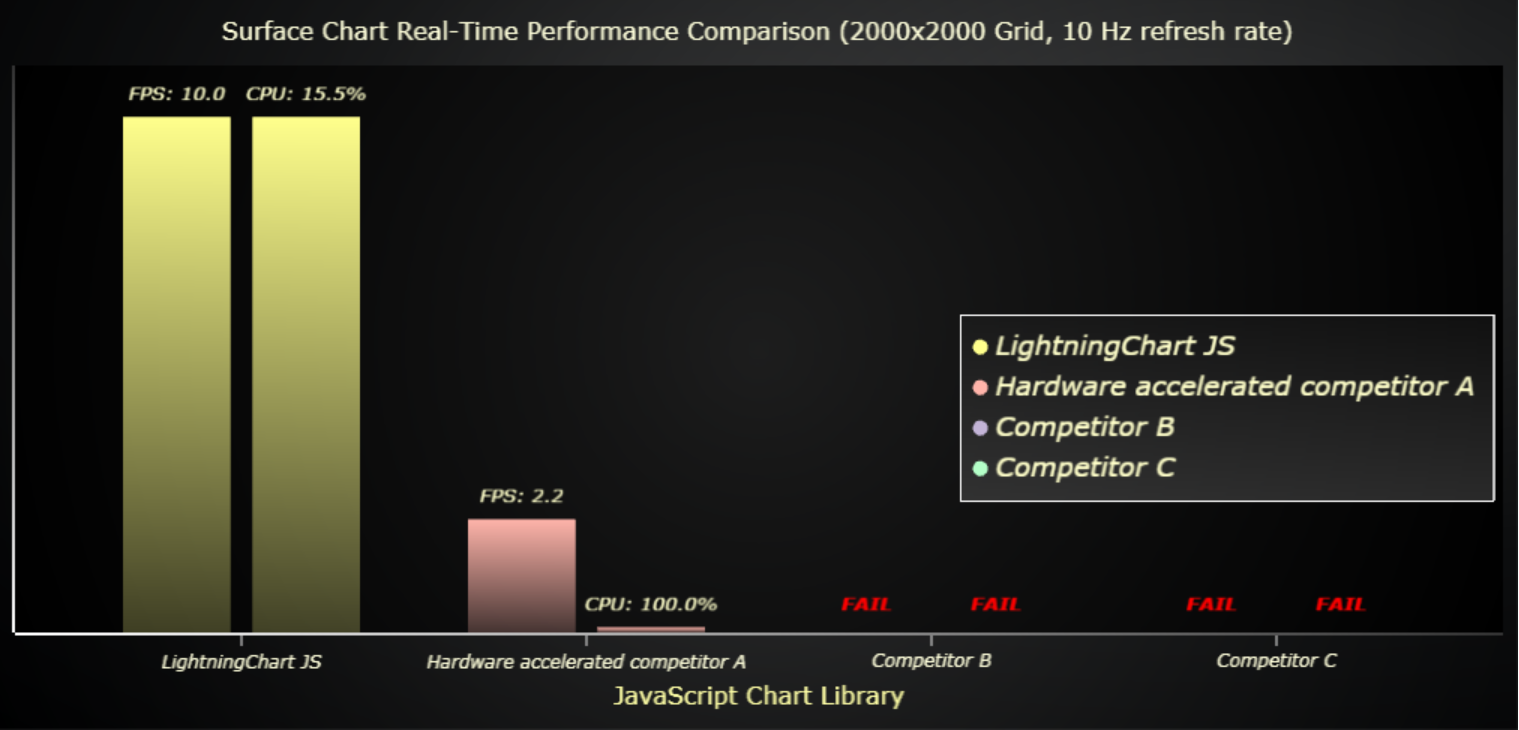
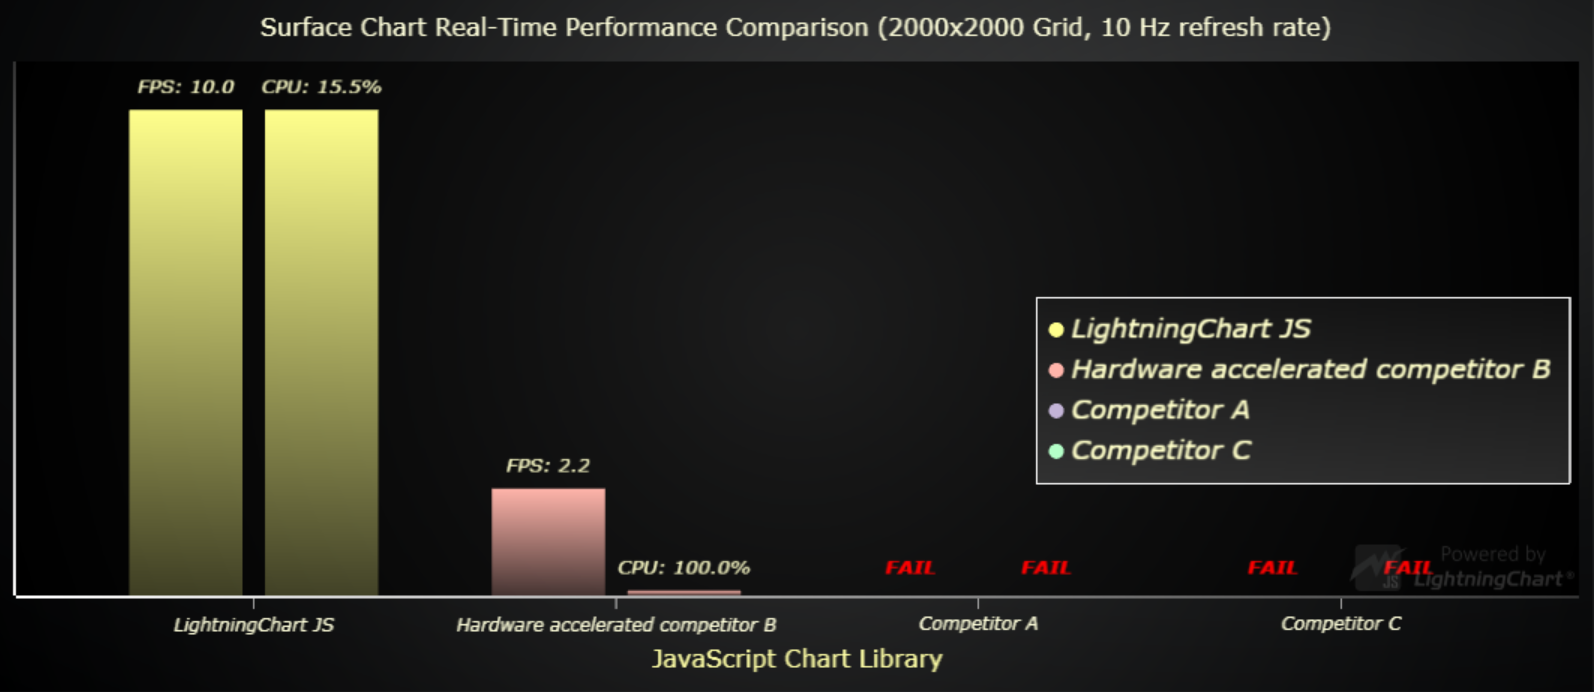
Fix competitor names in pics

diff --git a/bench/results-viz.js b/bench/results-viz.js
@@ -46,12 +46,12 @@ if (!target) {
                   { value: 1, label: '152 ms' },
               ] },
               {
-                  name: 'Hardware accelerated competitor A', values: [
+                  name: 'Hardware accelerated competitor B', values: [
                       { value: 152 / 1302, label: '1302 ms' }
                   ]
               },
               {
-                  name: 'Competitor B', values: [
+                  name: 'Competitor A', values: [
                       { value: 152 / 14598, label: '14598 ms' },
                   ]
               },
@@ -76,13 +76,13 @@ if (!target) {
                   { value: 100 - 15.5, label: 'CPU: 15.5%' }
               ] },
               {
-                  name: 'Hardware accelerated competitor A', values: [
+                  name: 'Hardware accelerated competitor B', values: [
                       { value: Math.min(10, 2.2), label: 'FPS: 2.2' },
                       { value: 100 - 100.0, label: 'CPU: 100.0%' }
                   ]
               },
               {
-                  name: 'Competitor B', values: [
+                  name: 'Competitor A', values: [
                       { value: -1, label: 'FAIL', color: '#ff0000' },
                       { value: -1, label: 'FAIL', color: '#ff0000' }
                   ]
@@ -109,13 +109,13 @@ if (!target) {
                   { value: 100 - 7.5, label: 'CPU: 7.5%' }
               ] },
               {
-                  name: 'Hardware accelerated competitor A', values: [
+                  name: 'Hardware accelerated competitor B', values: [
                       { value: 5.8, label: 'FPS: 5.8' },
                       { value: 100 - 100.0, label: 'CPU: 100.0%' }
                   ]
               },
               {
-                  name: 'Competitor B', values: [
+                  name: 'Competitor A', values: [
                       { value: 0.7, label: 'FPS: 0.7' },
                       { value: 100 - 100.0, label: 'CPU: 100.0%' }
                   ]
